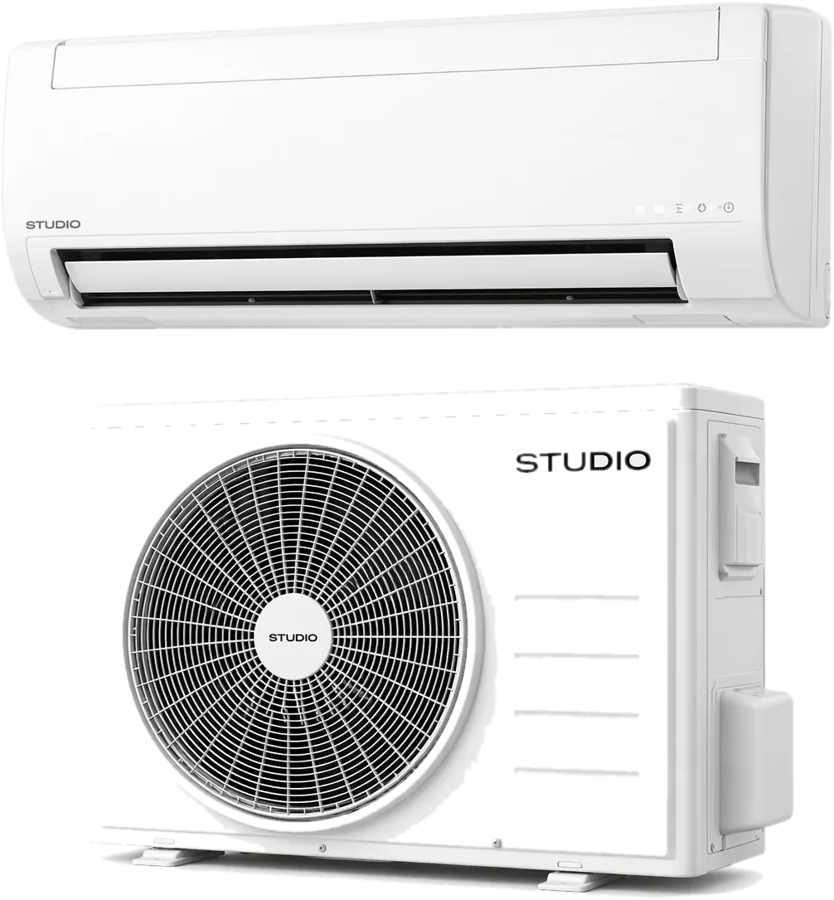
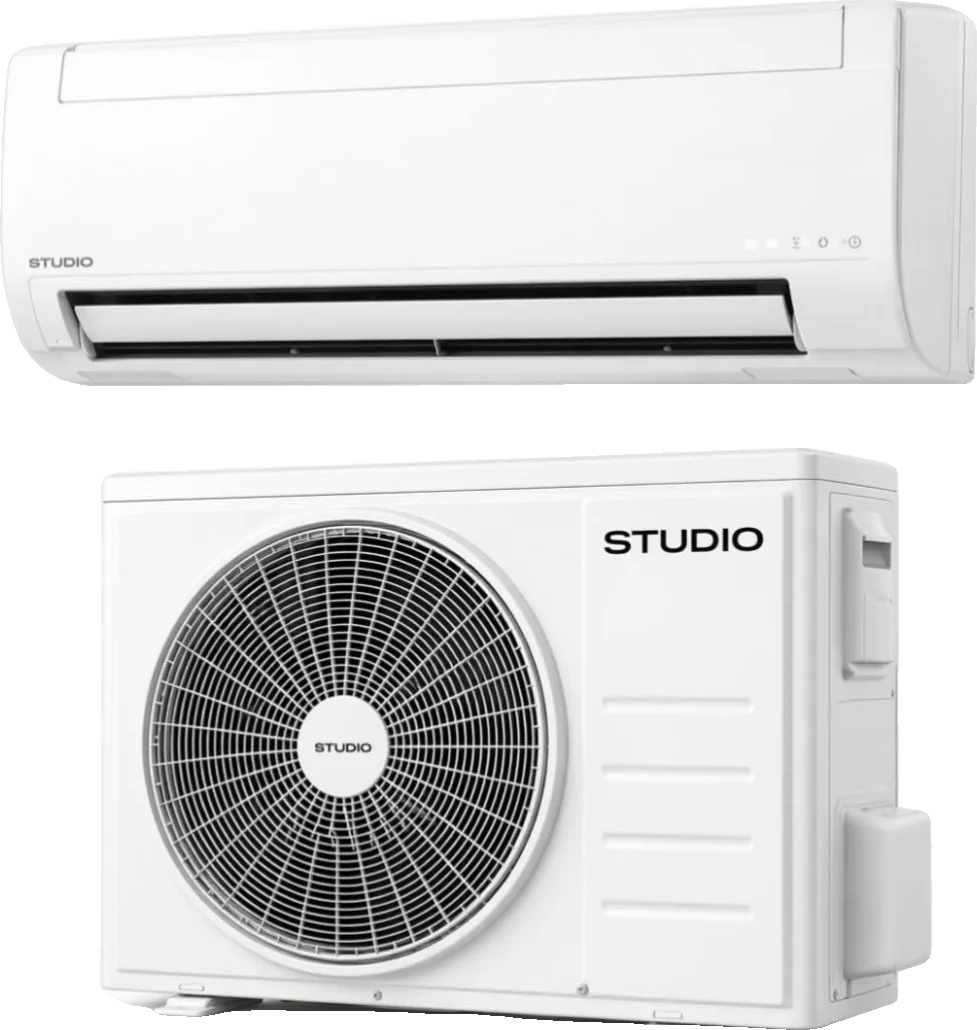
Página pública: fotos recortadas con IA, sin huecos ni manchas
Claude-Session: https://claude.ai/code/session_01XsqePqNsr899Mjtsv3s8DJ

diff --git a/docs/bitacora/2026-09-25-0615-claude.md b/docs/bitacora/2026-09-25-0615-claude.md
@@ -1,0 +1,32 @@
+# 2026-09-25 06:15 — Página pública: fotos recortadas con IA (Claude)
+
+El dueño: «Hay imagen que se ven mal».
+
+## Diagnóstico
+El recorte anterior borraba lo blanco conectado al borde de la foto. En productos blancos sobre
+fondo blanco se comía partes del propio producto:
+- ventilador de cristal con huecos oscuros;
+- caja de la cerradura facial con manchas negras;
+- aire sin un costado;
+- monta carga azul con manchas;
+- TV con borde inferior irregular;
+- sombras blancas bajo algunos scooters.
+
+## Solución
+Nuevo recorte con inteligencia artificial: `rembg` con el modelo `isnet-general-use`, ejecutado
+localmente en el entorno. Se eligió el mejor resultado para cada foto:
+- **IA** (17): aire, ventilador de cristal y white, LQ-HLD, H8, ZS, N9, M12 (rosa, blanco y gris),
+  XBW, XGW, PP, LK0114, las dos monta cargas y la nevera de 11 pies.
+- **Recorte anterior** (la IA borraba el disco blanco o la puerta): ventiladores madera y
+  white/black, y nevera de 8 pies.
+- **Unión IA + recorte anterior**: Smart Lock facial.
+- **TV 50/55**: el recorte anterior, sin el 6.5 % inferior (el reflejo irregular).
+
+Archivos: `img/tienda/*.webp`, mismos nombres, sin cambios en `tienda.html`.
+
+## Pruebas
+- Hoja de revisión de las 23 fotos sobre el fondo de la página: sin huecos ni manchas.
+- Playwright en 1280 y 390: 0 imágenes rotas, 0 errores.
+
+## Estado
+En la rama. **No publicado.**
